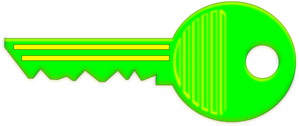
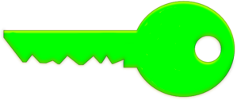
fading key effect on unlocked key

Changed region(s): [[0.0295, 0.06, 0.7679, 0.93]]

diff --git a/OpenSesame/gui/unlocked.py b/OpenSesame/gui/unlocked.py
@@ -1,0 +1,49 @@
+import cairo
+import gtk
+import glib
+import os
+
+def yieldsleep(func):
+    def start(*args, **kwds):
+        iterable = func(*args, **kwds)
+        def step(*args, **kwds):
+            try:
+                secs = next(iterable)
+                glib.timeout_add(secs, step)
+            except StopIteration:
+                pass
+        glib.idle_add(step)
+    return start
+
+class KeyFade(gtk.Window):
+
+    def __init__(self):
+        super(KeyFade, self).__init__()
+        self.connect("expose-event", self.do_expose_event)
+        self.set_app_paintable(True)
+        self.set_decorated(False)
+        self.set_property("resizable", False)
+        self.set_size_request(240, 105)
+        self.set_colormap(self.get_screen().get_rgba_colormap())
+        self.set_position(gtk.WIN_POS_CENTER)
+        self.set_skip_taskbar_hint(True)
+        self.set_skip_pager_hint(True)
+        self.show_all()
+
+    @yieldsleep
+    def do_expose_event(self, widget, event): 
+        timer = range(0,20)
+        timer.reverse()
+        fadealpha = 1.0
+        for i in timer:
+            yield i/4*i
+            fadealpha -= .1
+            cr = widget.window.cairo_create()
+            cr.set_operator(cairo.OPERATOR_CLEAR)
+            cr.rectangle(0, 0, *widget.get_size())
+            cr.fill()
+            cr.set_operator(cairo.OPERATOR_OVER)
+            key_image = cairo.ImageSurface.create_from_png(os.path.dirname(__file__)+"/key.png")
+            cr.set_source_surface(key_image, 0, 0)
+            cr.paint_with_alpha(fadealpha)
+        self.hide()
